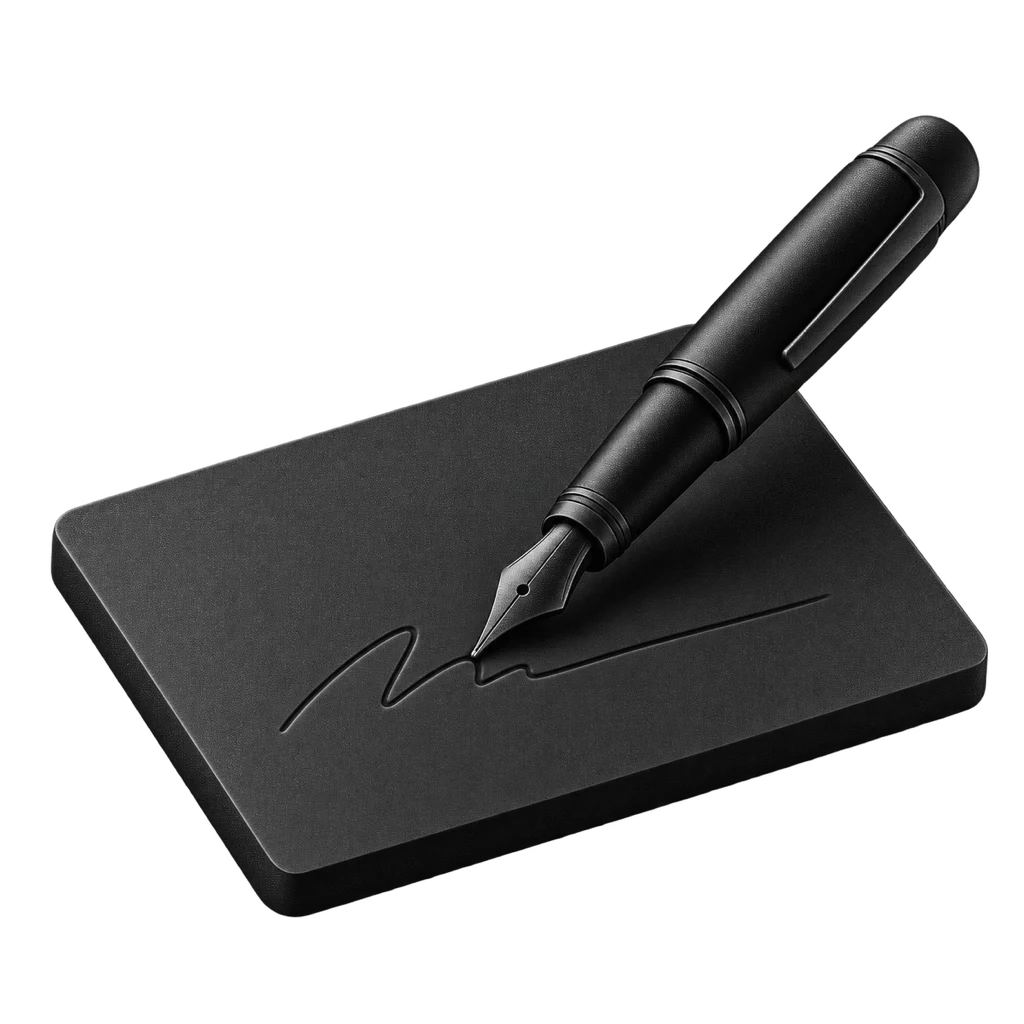
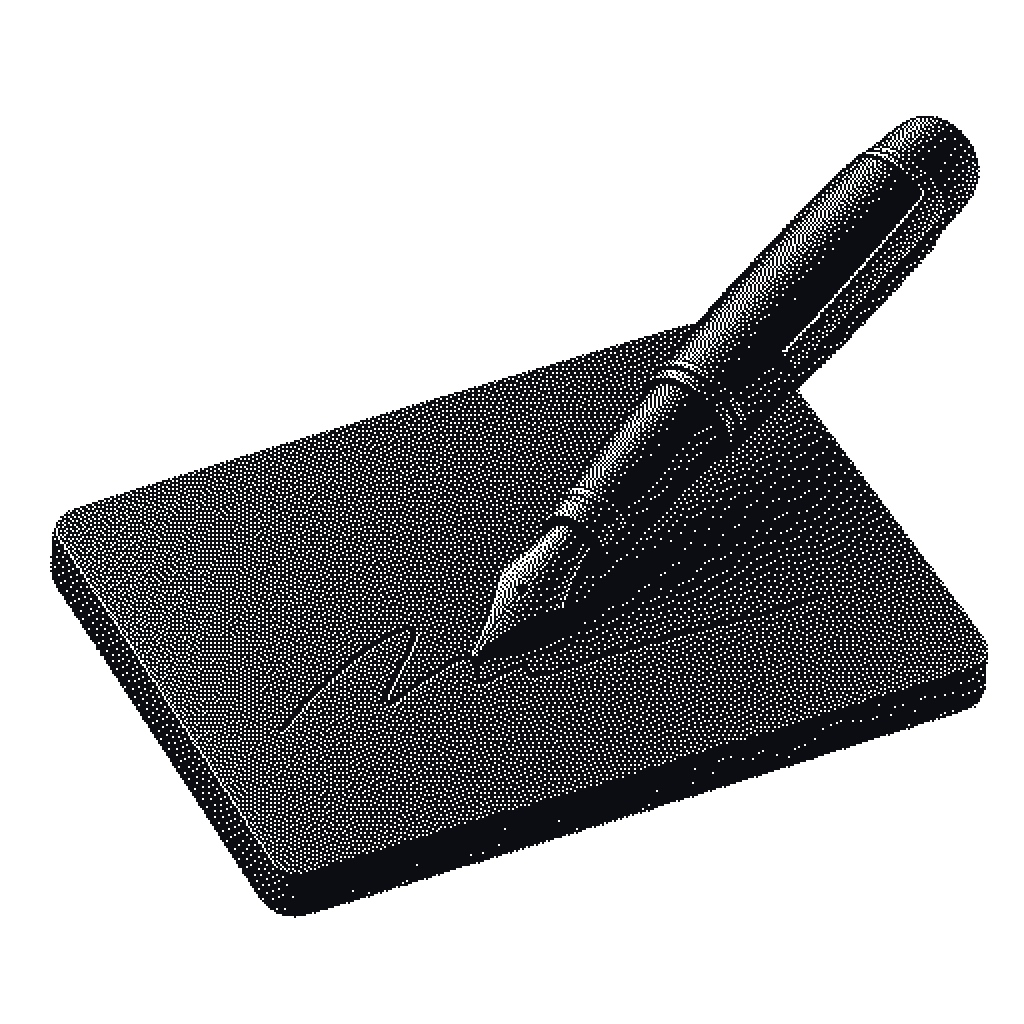
feat(site): dither landing art to 1-bit stipple and drop the v1 illustration set

Changed region(s): [[0.0312, 0.0938, 0.9688, 0.875], [0.8125, 0.4375, 0.8438, 0.4688]]

diff --git a/apps/site/ILLUSTRATIONS.md b/apps/site/ILLUSTRATIONS.md
@@ -1,27 +1,8 @@
 # Illustration provenance
 
-Not served by the site (lives outside `public/`). Source PNGs generated at
-`/Users/juanma/Desktop/eth-global/assets/illustrations/`, converted to WebP
-(alpha preserved) into `public/illustrations/`. Provenance is also embedded
-per-file via `impeccable embed-prompt` (PNG tEXt where supported, a
-`<file>.webp.json` sidecar for WebP).
-
-Model for all seven: OpenAI built-in image generation tool (`image_gen`), via
-Codex. Style: flat black line art, one accent color per character, no text,
-no Japanese motifs.
-
-| File | Accent | Used for | Prompt summary |
-|---|---|---|---|
-| `user.webp` | sky blue `#62aef0` | The person signing the intent | Calm person looking at their phone |
-| `agent.webp` | marigold `#ffb110` | The shopping agent | Friendly small robot carrying a shopping bag |
-| `guardian.webp` | blue `#0075de` | The firewall's verdict | Guardian with a clipboard checkmark, standing at a gate |
-| `trickster.webp` | coral `#f64932` | Injected promo/prompt-injection copy | Mischievous sticky note / promo flyer with a sneaky face |
-| `store.webp` | mocha `#b18164` | The store / payment recipient | Small shop stall with a striped awning |
-| `promise.webp` | marigold `#ffb110` | The signed intent (Why rules miss it) | A hand signing a blank card |
-| `approval.webp` | blue `#0075de` | World ID human approval | A hand holding a phone with a checkmark / X |
-
-Full verbatim prompts: `/Users/juanma/Desktop/eth-global/assets/illustrations/manifest.json`
-(outside the repo, not committed).
+The first set (flat line art for the Notion-style world, `public/illustrations/`) was
+removed with that world on Sat Sep 26; its sources stay in
+`/Users/juanma/Desktop/eth-global/assets/illustrations/` (outside the repo).
 
 ## Art set v2 (security world)
 
@@ -52,3 +33,10 @@ accent where noted.
 
 Full verbatim prompts: `/Users/juanma/Desktop/eth-global/assets/art-v2/manifest.json`
 (outside the repo, not committed).
+
+Post-processing (all nine): each source PNG is resized to 512px and converted to a
+1-bit Floyd-Steinberg stipple (ink coverage = darkness x alpha, dots in `#0b0d12` on
+transparency; saturated blue accent pixels kept as `#1f5bff`), upscaled 2x
+nearest-neighbour and encoded as lossless WebP. Script:
+`/Users/juanma/Desktop/eth-global/assets/art-v2/dither.py` (outside the repo). Each
+sidecar records it under `postProcess`.
